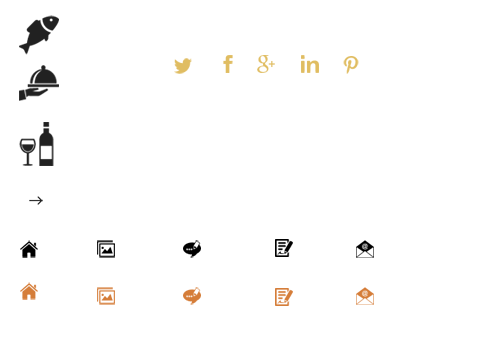
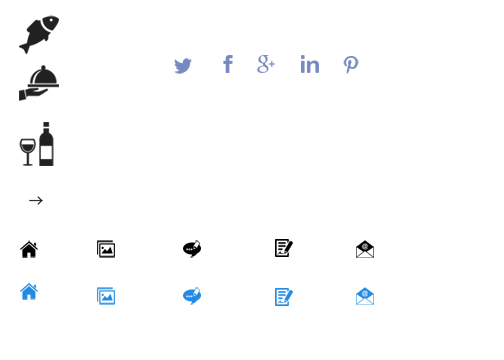
Ueditor;Add blog;Add Comment 解决主页中blog内容的HTML格式

diff --git a/src/main/resources/static/styles/style.css b/src/main/resources/static/styles/style.css
@@ -37,7 +37,7 @@ body a:hover{
 }
 /*-- logo --*/
 .logo{
-	background:#E0BD62;
+	background:#2890e6;
 	width:200px;
 	height:200px;
 	border-radius:100%;
@@ -145,12 +145,12 @@ i.envelope,.navbar-default .navbar-nav > li > a:hover i.envelope1{
     float: none;
 }
 .navbar-default .navbar-nav > .active > a, .navbar-default .navbar-nav > .active > a:hover, .navbar-default .navbar-nav > .active > a:focus {
-    color:#D57D39  !important;
+    color:#0f88eb  !important;
     background: transparent;
 	border-bottom: 1px solid;
 }
 .navbar-default .navbar-nav > li > a:hover, .navbar-default .navbar-nav > li > a:focus {
-    color:#D57D39  !important;
+    color:#0f88eb  !important;
 }
 /* Underline From Left */
 .hvr-underline-from-left {
@@ -172,7 +172,7 @@ i.envelope,.navbar-default .navbar-nav > li > a:hover i.envelope1{
   left: 0;
   right: 100%;
   bottom: 0;
-	background: #D57D39 ;
+	background: #0f88eb;
     height: 1px;
   -webkit-transition-property: right;
   transition-property: right;
@@ -197,10 +197,10 @@ i.envelope,.navbar-default .navbar-nav > li > a:hover i.envelope1{
 }
 .latest-news h2,.latest-news h3{
 	font-size:1.5em;
-	color:#E0BD62;
+	color:#2890e6;
 	margin:0;
 	padding-bottom:.5em;
-	border-bottom:1px solid #E0BD62;
+	border-bottom:1px solid #2890e6;
 }
 .latest-news h3{
 	margin:2em 0 0 !important;
@@ -248,8 +248,8 @@ i.envelope,.navbar-default .navbar-nav > li > a:hover i.envelope1{
 	-ms-transition:.5s ease-in;
 }
 .join a:hover{
-	border:1px solid #D57D39;
-	color:#D57D39 ;
+	border:1px solid #2890e6;
+	color:#2890e6 ;
 }
 .latest-news p{
 	margin:1em 0 0;
@@ -410,7 +410,7 @@ ul.wmuSliderPagination {
 	text-indent: -9999px;
 	width: 15px;
 	height: 15px;
-	background:#D57D39;
+	background:#2890e6;
 	border-radius: 25px;
 	-webkit-border-radius: 25px;
 	-moz-border-radius: 25px;
@@ -455,7 +455,7 @@ ul.wmuSliderPagination {
 .msg-text-bottom-left h3 a{
 	text-transform: capitalize;
     font-size:.85em;
-    color: #D57D39 ;
+    color: #2890e6 ;
     margin: 0.5em 0;
     display: block;
     line-height: 1.5em;
@@ -494,7 +494,7 @@ ul.wmuSliderPagination {
 	padding-right: .5em;
 }
 .footer-left ul li a:hover,.footer-left p a{
-	color:#E0BD62;
+	color:#2890e6;
 }
 .footer-left p{
 	font-size:14px;
@@ -547,11 +547,11 @@ ul.wmuSliderPagination {
 
 /* facebook */
 .icon-border.facebook::before,.icon-border.twitter::before,.icon-border.googleplus::before,.icon-border.github::before,.icon-border.rss::before {
-  box-shadow:inset 0 0 0 48px #E0BD62;
+  box-shadow:inset 0 0 0 48px #2890e6;
 }
 
 .icon-border.facebook:hover::before,.icon-border.twitter:hover::before,.icon-border.googleplus:hover::before,.icon-border.github:hover::before,.icon-border.rss:hover::before {
-  box-shadow:inset 0 0 0 4px #E0BD62;
+  box-shadow:inset 0 0 0 4px #2890e6;
 }
 .icon-border.facebook:hover::after{
   background-position:-162px -45px;
@@ -612,7 +612,7 @@ ul.wmuSliderPagination {
 }
 .gallery-head h5{
 	font-size:2em;
-    color: #E0BD62;
+    color: #2890e6;
     margin: 1.5em 0 0;
 }
 .gallery-head p{
@@ -713,14 +713,14 @@ figure.effect-winston:hover figcaption::before {
 /*-- blog --*/
 .blog-grid-left img{
 	width: 221px;
-	height: 151.1px;
+	height: 151.1;
 	padding:.3em;
 	border:1px dotted #999;
 }
 .blog-grid-right h4 a{
 	text-transform: capitalize;
     font-size:1.2em;
-    color: #D57D39;
+    color: #2890e6;
     margin: 0;
     line-height: 1.5em;
 	text-decoration:none;
@@ -740,7 +740,7 @@ figure.effect-winston:hover figcaption::before {
 	color:#212121;
 }
 .blog-grid-right a:hover span{
-	color: #D57D39;
+	color: #2890e6;
 }
 .blog-grid:nth-child(2){
 	margin:0 0;
@@ -752,7 +752,7 @@ figure.effect-winston:hover figcaption::before {
 	width:45%;
 	}
 .single-left p{
-	color:#E0BD62;
+	color:#2890e6;
     font-size: 14px;
     font-style: italic;
     margin: 0.5em 0 2em;
@@ -769,7 +769,7 @@ figure.effect-winston:hover figcaption::before {
 	margin-top: 2.5em;
 	}
 .single-right h4{
-	color:#D57D39;
+	color:#2890e6;
     text-transform: capitalize;
     margin: 1em 0;
     font-size: 1.3em;
@@ -810,7 +810,7 @@ figure.effect-winston:hover figcaption::before {
 	text-align: center;
 	}
 .cat-grid h4{
-	color:#E0BD62;
+	color:#2890e6;
 	font-size: 1.5em;
 	margin: 0;
 	}
@@ -839,24 +839,24 @@ figure.effect-winston:hover figcaption::before {
 .cat-grid ul li a:hover{
 	text-decoration:none;
 	color: #fff;
-	background-color:#D57D39;
+	background-color:#2890e6;
 	}
 .top-social-icons {
 	margin-top: 3em;
 	}
 .three-com h3{
-	color: #E49B24;
+	color: #2890e6;
     font-size: 1.3em;
     margin: 0;
     font-style: normal;
     padding:0 0 1em;
 	}
 .three-com h3 span{
-	color:#D57D6D;
+	color:#2890e6;
 	font-size:15px;
 	}
 .three-com h3 label{
-	color: #E0BD62;
+	color: #2890e6;
     font-weight: normal;
 	}
 .tom-grid{
@@ -878,7 +878,7 @@ figure.effect-winston:hover figcaption::before {
 	width:85%;
 	}
 .tom-right h4 a{
-	color:#D57D39;
+	color:#0f88eb;
     font-size: 1em;
     font-style: normal;
     margin: 0;
@@ -940,7 +940,7 @@ figure.effect-winston:hover figcaption::before {
 	  margin: 3em 0 0;
 	}
 .leave-comment h4{
-	color:#E0BD62;
+	color:#2890e6;
     margin: 0;
     font-size: 1.5em;
 	}
@@ -967,7 +967,7 @@ figure.effect-winston:hover figcaption::before {
 	}
 .leave-comment input[type="submit"] {
     font-size: 1em;
-    background:#E0BD62;
+    background:#2890e6;
     padding: 10px 0;
     color: #fff;
     display: block;
@@ -1252,7 +1252,7 @@ h2.typoh2{
 /*-- mail --*/
 .mail-grid1 h3, .map h3{
 	font-size:1.5em;
-    color: #E0BD62;
+    color: #2890e6;
     margin: 2em 0 0;
 }
 .mail-grid1 h3 span,.map h3 span{
@@ -1322,7 +1322,7 @@ h2.typoh2{
 	outline:none;
 	border:none;
 	font-size:1em;
-	background:#E0BD62;
+	background:#2890e6;
 	padding:12px 0;
 	width:30%;
 	color:#fff;

diff --git a/src/main/resources/templates/detail.html b/src/main/resources/templates/detail.html
@@ -117,7 +117,7 @@
 						<div class="clearfix"> </div>
 						<p class="tortor" th:utext="${blog.getContent()}"></p>
 						<div class="three-com" >
-							<h3>2 Comment <span>on</span> <label>Donec volutpat ligula non dapibus volutpat</label></h3>
+							<h3 > <span th:text="${commentCount}"></span> <span>Comments</span></h3>
 							<!--评论区-->
 							<div th:each="comment:${commentList}">
 								<div class="tom-grid">

diff --git a/src/main/java/com/BigPeng/VBlog/controller/BlogController.java b/src/main/java/com/BigPeng/VBlog/controller/BlogController.java
@@ -17,8 +17,7 @@ import org.springframework.web.bind.annotation.RequestMapping;
 
 import javax.servlet.http.Cookie;
 import javax.servlet.http.HttpServletRequest;
-import java.util.Date;
-import java.util.List;
+import java.util.*;
 
 @Controller
 public class BlogController {
@@ -84,7 +83,7 @@ public class BlogController {
             logger.error("添加博客失败"+e.getMessage());
         }
         model.addAttribute("msg","提交失败");
-        return "/blog/add";
+        return "redirect:/blog/add";
     }
 
     @RequestMapping("/blog/{blogId}")
@@ -93,11 +92,11 @@ public class BlogController {
         Blog blog = blogService.getBlogById(blogId);
         User user = userService.selectById(blog.getUserId());
         List<Comment> commentList= commentService.selectCommentByEntity(blogId,EntityType.ENTITY_BLOG);
+        int commentCount = commentService.getCommentCount(blogId,EntityType.ENTITY_BLOG);
         model.addAttribute("blog",blog);
         model.addAttribute("user",user);
         model.addAttribute("commentList",commentList);
-        for (Comment comment :commentList)
-            System.out.println(comment.getCreatedDate());
+        model.addAttribute("commentCount",commentCount);
         return "detail";
     }
     @RequestMapping("/detail")

diff --git a/src/main/java/com/BigPeng/VBlog/service/BlogService.java b/src/main/java/com/BigPeng/VBlog/service/BlogService.java
@@ -2,8 +2,10 @@ package com.BigPeng.VBlog.service;
 
 import com.BigPeng.VBlog.dao.BlogDao;
 import com.BigPeng.VBlog.model.Blog;
+import com.BigPeng.VBlog.util.VBlogUtil;
 import org.springframework.beans.factory.annotation.Autowired;
 import org.springframework.stereotype.Service;
+import org.springframework.web.util.HtmlUtils;
 
 import java.util.Date;
 import java.util.List;
@@ -19,7 +21,11 @@ public class BlogService {
     }
 
     public List<Blog> getBlogList(int userId,int offset,int limit){
-        return blogDao.getBlogList(userId,offset,limit);
+        List<Blog> list = blogDao.getBlogList(userId,offset,limit);
+        for (Blog blog:list){
+            blog.setContent(VBlogUtil.StripHTML(blog.getContent()));
+        }
+        return list;
     }
 
     public Blog getBlogById(int blogId){

diff --git a/src/main/java/com/BigPeng/VBlog/dao/CommentDao.java b/src/main/java/com/BigPeng/VBlog/dao/CommentDao.java
@@ -21,4 +21,8 @@ public interface CommentDao {
             " entity_Type = #{entityType} order by created_date desc "})
     List<Comment> selectCommentByEntity(@Param("entityId") int userId,
                                         @Param("entityType") int entityType);
+
+    @Select({"select count(comment_id) from ",TABLE_NAME," where entity_id=#{entityId} and entity_type=#{entityType}"})
+    int getCommentCount(@Param("entityId") int entityId,
+                        @Param("entityType") int entityType);
 }

diff --git a/src/main/java/com/BigPeng/VBlog/util/VBlogUtil.java b/src/main/java/com/BigPeng/VBlog/util/VBlogUtil.java
@@ -93,4 +93,15 @@ public class VBlogUtil {
         }
         return listImgSrc;
     }
+
+    /**
+     * 取出String中的HTML格式
+     * @param strHtml
+     * @return
+     */
+    public static String StripHTML(String strHtml) {
+        String txtcontent = strHtml.replaceAll("</?[^>]+>", ""); //剔出<html>的标签
+        txtcontent = txtcontent.replaceAll("<a>\\s*|\t|\r|\n</a>", "");//去除字符串中的空格,回车,换行符,制表符
+        return txtcontent;
+    }
 }

diff --git a/src/main/java/com/BigPeng/VBlog/controller/CommentController.java b/src/main/java/com/BigPeng/VBlog/controller/CommentController.java
@@ -6,8 +6,6 @@ import com.BigPeng.VBlog.service.CommentService;
 import com.BigPeng.VBlog.service.UserService;
 import org.springframework.beans.factory.annotation.Autowired;
 import org.springframework.stereotype.Controller;
-import org.springframework.ui.Model;
-import org.springframework.web.bind.annotation.ModelAttribute;
 import org.springframework.web.bind.annotation.PathVariable;
 import org.springframework.web.bind.annotation.RequestMapping;
 

diff --git a/src/main/java/com/BigPeng/VBlog/service/CommentService.java b/src/main/java/com/BigPeng/VBlog/service/CommentService.java
@@ -20,4 +20,9 @@ public class CommentService {
     public int addComment(Comment comment){
         return commentDao.addComment(comment);
     }
+
+    public int getCommentCount(int entityId,
+                               int entityType){
+        return commentDao.getCommentCount(entityId,entityType);
+    }
 }

diff --git a/src/main/java/com/BigPeng/VBlog/controller/HomeController.java b/src/main/java/com/BigPeng/VBlog/controller/HomeController.java
@@ -57,7 +57,7 @@ public class HomeController {
             return "home";
         }else {
             model.addAttribute("user",user);
-            return "login";
+            return "redirect:/";
         }
 
     }
